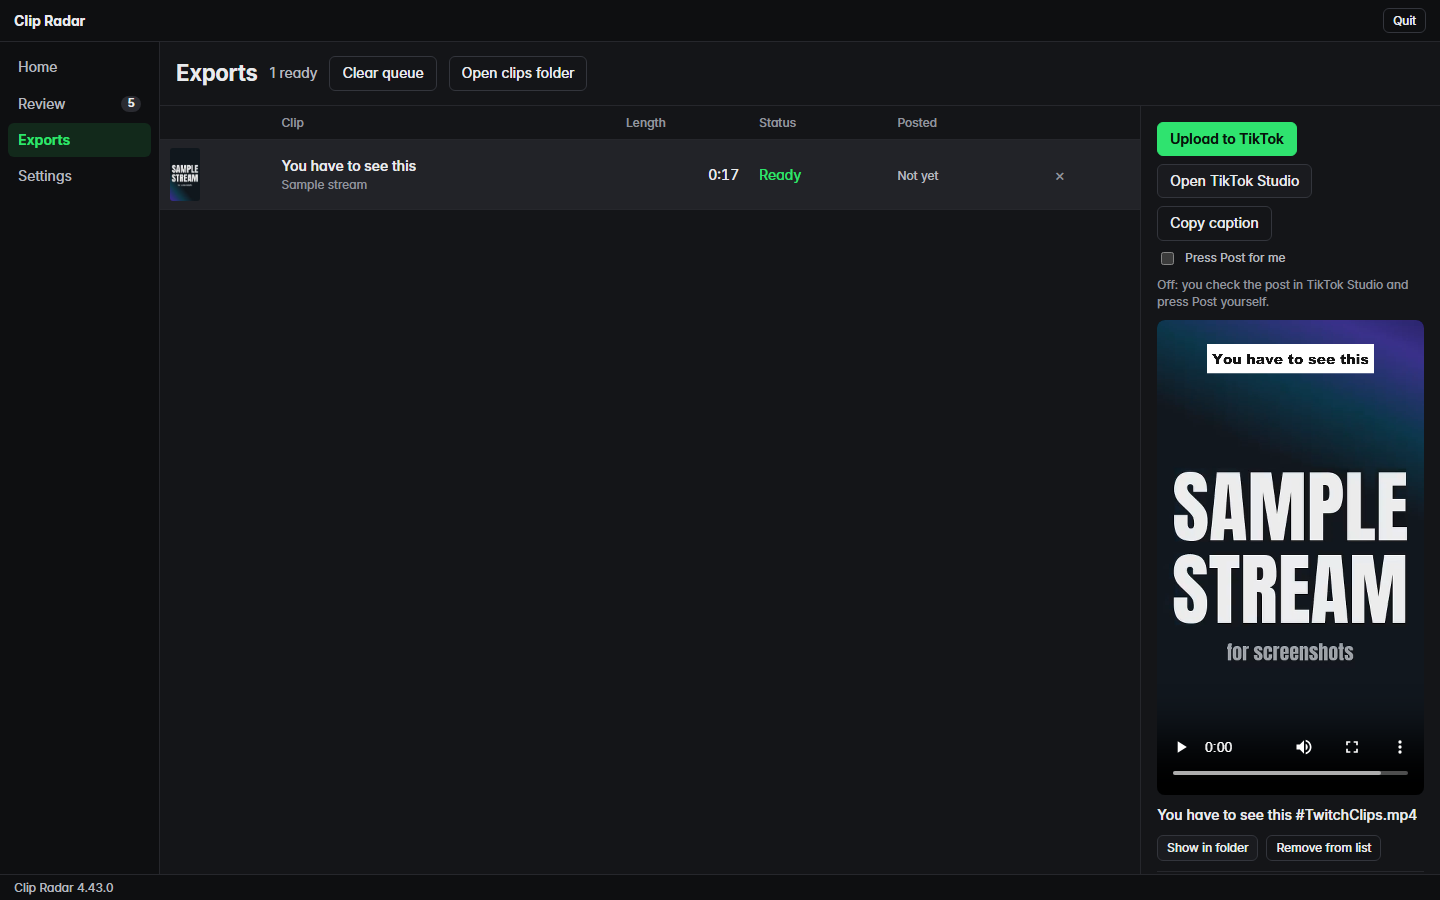
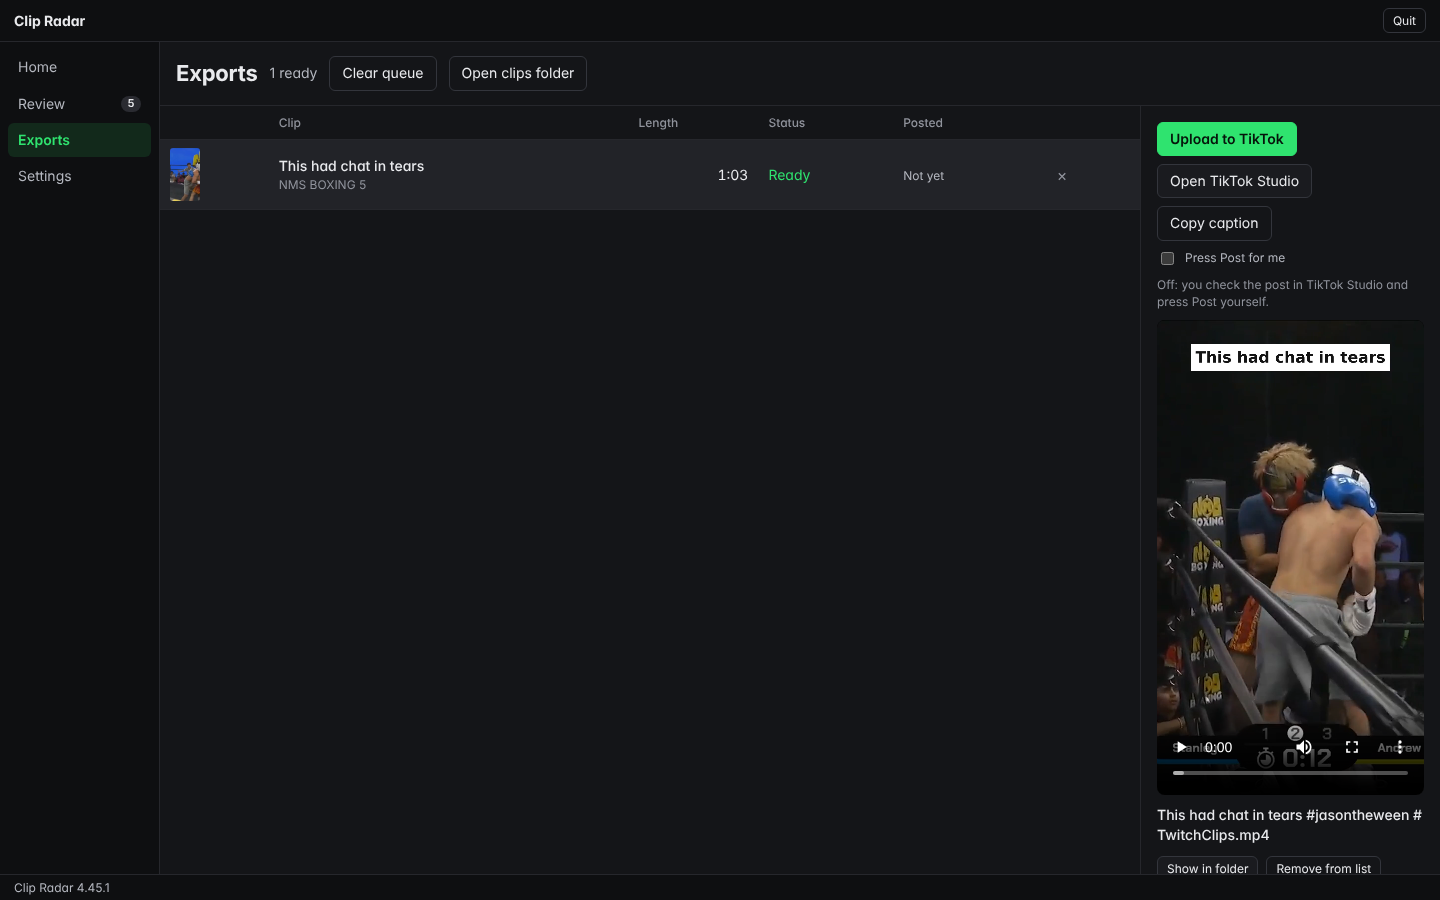
README screenshots from a real VOD
Retaken with scripts/readme_shots.py on 40 minutes (1:35:00-2:15:00) of
jasontheween's NMS BOXING 5 (twitch.tv/videos/2910903624, shown with
permission) and its chat replay: real clips, titles, scores and flags. The
Layout shot now shows Punch-in. The banner is unchanged.

Claude-Session: https://claude.ai/code/session_01Qvvk9ZQ7GL2urRcbfdqmrP

diff --git a/README.md b/README.md
@@ -27,7 +27,7 @@
 Clip Radar watches a Twitch stream the way your chat does. It finds the moments where chat explodes and the audio spikes, cuts them into vertical 9:16 clips with captions and a title, and lets you review and post them to TikTok. It works on a past broadcast, or live while you're still streaming. Everything runs on your own PC.
 
 <p align="center">
-  <img src="docs/images/review.png" alt="Reviewing suggested clips in a 9:16 phone preview" width="100%">
+  <img src="docs/images/review.png" alt="Reviewing clips found in a boxing stream, in a 9:16 phone preview" width="100%">
 </p>
 
 ## Features
@@ -73,11 +73,11 @@ Clip Radar watches a Twitch stream the way your chat does. It finds the moments 
 
 ## Screenshots
 
-Taken from the app on a generated sample video (`python scripts/readme_shots.py` retakes them).
+Taken from the app on 40 minutes of a real Twitch VOD, jasontheween's [NMS BOXING 5](https://www.twitch.tv/videos/2910903624) (shown with permission), with its chat replay. The clips, titles, scores and flags are what Clip Radar found in it. `python scripts/readme_shots.py --video <file> --chat <chat.json>` retakes them.
 
 <table>
   <tr>
-    <td width="50%"><img src="docs/images/layout.png" alt="Layout tab: shape, layout, Auto-frame and following the streamer's face, on a clip with a content flag"><p align="center"><sub><b>Layout:</b> shape, layout, Auto-frame, follow the face</sub></p></td>
+    <td width="50%"><img src="docs/images/layout.png" alt="Layout tab: shape, layout, Auto-frame, following the face and punch-in, on a clip with a content flag"><p align="center"><sub><b>Layout:</b> shape, layout, Auto-frame, follow the face, punch-in</sub></p></td>
     <td width="50%"><img src="docs/images/home.png" alt="Home: a past broadcast or video, and hands-free live clipping"><p align="center"><sub><b>Home:</b> a past broadcast, or hands-free live clipping</sub></p></td>
   </tr>
   <tr>
